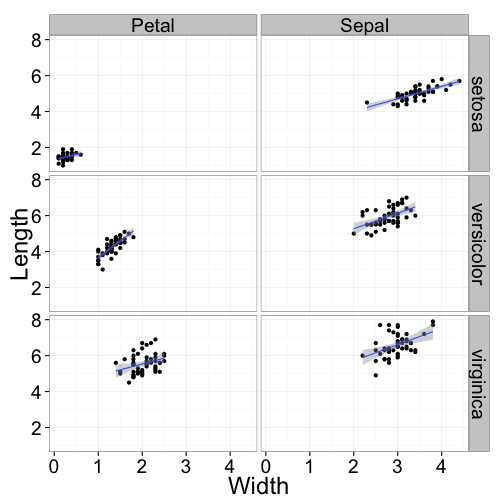
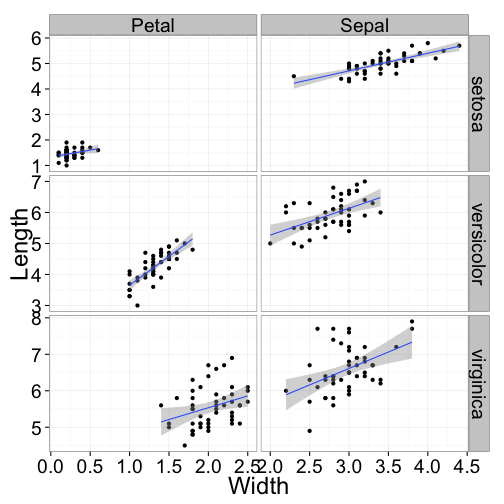
First draft if the ggplot2 lecture notes.

diff --git a/Advanced_graphics_in_R.md b/Advanced_graphics_in_R.md
@@ -6,7 +6,7 @@ transition: none
 font-family: 'Helvetica'
 css: my_style.css
 author: Raphael Gottardo, PhD
-date: January 07, 2014
+date: January 08, 2014
 
 <a rel="license" href="http://creativecommons.org/licenses/by-sa/3.0/deed.en_US"><img alt="Creative Commons License" style="border-width:0" src="http://i.creativecommons.org/l/by-sa/3.0/88x31.png" /></a><br /><tiny>This work is licensed under a <a rel="license" href="http://creativecommons.org/licenses/by-sa/3.0/deed.en_US">Creative Commons Attribution-ShareAlike 3.0 Unported License</tiny></a>.
 
@@ -235,7 +235,7 @@ Reshaping your data with reshape2
 ===================
 
 It is often necessary to reshape (e.g. pivot) your data before analysis. This can easily be done in R using the `reshape2` package.
-This package provides main functions `melt` and `cast`. `melt` basically "melts" a dataframe in wide format into a long format. `cast` goes in the other direction.
+This package provides main functions `melt` and `*cast`. `melt` basically "melts" a dataframe in wide format into a long format. `*cast` goes in the other direction.
 
 Let's revisite our `iris` dataset.
 
@@ -331,7 +331,7 @@ head(iris_cast)
 
 **Q:** Why are the elements of `flower_id` not properly ordered?
 
-`melt` and `*cast` are very powerful. These can also be used on data.tables. More on this latter.
+`melt` and `*cast` are very powerful. These can also be used on `data.tables`. More on this latter.
 
 **Exercise:** Try to reorder the variable names in the formula. What happens?
 
@@ -349,19 +349,26 @@ qplot(x=Width, y=Length, data=iris_cast, geom=c("point","smooth"), color=Species
 ![plot of chunk multi-facet](Advanced_graphics_in_R-figure/multi-facet.png) 
 
 
-It would be nice to see if we can have free scales for the panels, but before we explore this, let's talk about the `ggplot` API as an alternative to qplot. Can we also customize the look and feel?
+It would be nice to see if we could have free scales for the panels, but before we explore this, let's talk about the `ggplot` API as an alternative to qplot. Can we also customize the look and feel?
 
 
 ggplot2 and the grammar of graphics
 ===================================
 
-`ggplot2` provides another API via the `ggplot` command. This directly the implements  the idea of a "grammar of graphics". 
+`ggplot2` provides another API via the `ggplot` command, that directly implements the idea of a "grammar of graphics". 
+The grammar defines the components of a plot as:
+- a default dataset and set of mappings from variables to aesthetics,
+- one or more layers, with each layer having one geometric object, one statistical transformation, one position adjustment, and optionally, one dataset and set of aesthetic mappings,
+- one scale for each aesthetic mapping used,
+- a coordinate system,
+- the facet specification.
+
+-----------
 
 
 ```r
-ggplot(data=iris_cast, aes(x=Width, y=Length))+
-  # Add points
-  geom_point()+facet_grid(Species~flower_part)+
+ggplot(data=iris_cast, aes(x=Width, y=Length))+ # Add points and use free scales in the facet
+  geom_point()+facet_grid(Species~flower_part, scale="free")+
   # Add a regression line
   geom_smooth(method="lm")+
   # Use the black/white theme and increase the font size
@@ -370,8 +377,6 @@ ggplot(data=iris_cast, aes(x=Width, y=Length))+
 
 ![plot of chunk ggplot-iris](Advanced_graphics_in_R-figure/ggplot-iris.png) 
 
-
-Note: the `ggplot` API requires the use of a dataframe. Many different layers can be added to obtain the desired results. Different data can be used in the different layers.
 
 ggplot2 and the grammar of graphics (suite)
 ===================================
@@ -389,10 +394,17 @@ my_plot
 ![plot of chunk ggplot-iris-suite](Advanced_graphics_in_R-figure/ggplot-iris-suite.png) 
 
 
-**Exercise:** Your turn to try. Try to facet by `flower_part` and use Species as an aesthetic variable.
+------------------
+
+Note: the `ggplot` API requires the use of a dataframe. Many different layers can be added to obtain the desired results. Different data can be used in the different layers. 
+
+**Exercise:** Your turn to try! Try to facet by `flower_part` and use Species as an aesthetic variable. Try to use `facet_wrap` instead of `facet_grid`.
+
 
 Having some fun with ggplot2
 ===================================
+
+Excel theme
 
 
 ```r
@@ -405,12 +417,34 @@ my_plot+theme_excel(base_size=24)
 
 -----------------------------
 
+Wall Street Journal theme
+
 
 ```r
 my_plot+theme_wsj(base_size=18)
 ```
 
 ![plot of chunk ggthemes2](Advanced_graphics_in_R-figure/ggthemes2.png) 
+
+
+Having some fun with ggplot2 (suite)
+===================================
+
+With ggplot2 you can create your own theme, and save it if you want to reuse it later.
+
+
+```r
+my_plot+
+  # Polar coordinate!
+  coord_polar()+
+  theme(legend.background=element_rect(fill = "pink"), text=element_text(size=24))
+```
+
+![plot of chunk ggplot-themes](Advanced_graphics_in_R-figure/ggplot-themes.png) 
+
+
+Please look at the [documentation](http://docs.ggplot2.org/current/theme.html) for more details.
+You have no more excuses to create boring graphs!
 
 
 References
@@ -420,5 +454,13 @@ Here are some good references for mastering ggplot2
 
 - [R Graphics Cookbook](http://www.amazon.com/dp/1449316956/ref=cm_sw_su_dp?tag=ggplot2-20) by Winston Chang
 
+- [ggplot2 recipes](http://www.cookbook-r.com/Graphs/) by Winston Chang (Free online)
+
 - [ggplot2: Elegant Graphics for Data Analysis (Use R!)](http://www.amazon.com/dp/0387981403/ref=cm_sw_su_dp?tag=ggplot2-20) by Hadley Wickham
+
+Please pay attention to the fonts, fontsize and colors you use. You may want to look at:
+- [Colorbrewer](http://colorbrewer2.org/), palettes available through the `RColorBrewer` package. `ggplot2` provides options to use Colorbrewer palettes.
+
+- [Using your favorite fonts in R](http://blog.revolutionanalytics.com/2012/09/how-to-use-your-favorite-fonts-in-r-charts.html)
+
 
